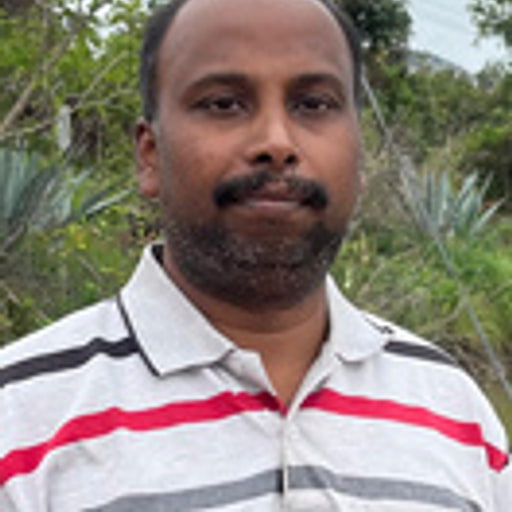
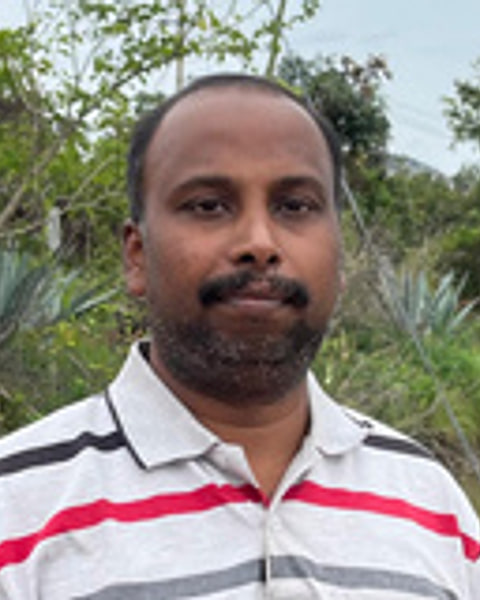
Committee portraits: keep the whole head, at the photograph's own size
The portraits were being cropped square. The brochure scans are 4:5
head-and-shoulders photographs, so squaring them meant cutting a fifth of
the height out of every one, and the saliency crop took it off the top —
which clipped the top of every head and left the faces filling the frame
edge to edge with no air around them. Because the crop offset was chosen
per photograph, the faces also landed at different heights across the grid.

Now they keep their native 4:5, so most lose nothing at all, and the crop
position is fixed rather than automatic: sources taller than the frame are
trimmed from the bottom so the head survives, wider ones are trimmed evenly
at the sides. The faces line up.

They were also being blown up nearly twice over — the originals are 68 to
160px — which is where the softness came from as much as the size. Three
across on a phone instead of two, six on a desktop instead of five, brings
the frames close to the photographs' own scale.

Two things fell out of this:

- The collapsed grid's peek into row three was a fixed 118px, which is a
  different gesture at each breakpoint now that the rows differ in height.
  It is measured as a share of the row pitch instead.
- Portrait alt text repeated the name printed underneath it, so a screen
  reader announced each member twice. The names are real text, so the
  portraits are marked decorative and axe's image-redundant-alt clears.

diff --git a/components/sections/CommitteeGrid.tsx b/components/sections/CommitteeGrid.tsx
@@ -14,23 +14,29 @@ import { EASE_OUT_EXPO } from "@/lib/motion";
  *
  * The collapsed height is measured from where the third row actually starts
  * rather than being a fixed pixel value or an nth-child rule per breakpoint —
- * the grid is 2 columns on a phone, 3 on a tablet and 5 on a desktop, and
- * measuring means "two rows" stays true at every one of them, and after the
- * fonts load.
+ * the grid is 3 columns on a phone and 6 on a desktop, and measuring means
+ * "two rows" stays true at both, and after the fonts load.
  */
+
 /**
- * How far into the third row the collapsed grid reaches. The whole of this
- * band is what dissolves, so it wants to be deep enough to read as
- * "photographs continuing" rather than as a trimmed edge.
+ * How far into the third row the collapsed grid reaches, as a share of the row
+ * pitch. The whole of this band is what dissolves, so it wants to be deep
+ * enough to read as "photographs continuing" rather than as a trimmed edge —
+ * but a fixed pixel depth cannot do that at every breakpoint, because a row is
+ * roughly twice as tall on a desktop as on a phone. Measured, it stays the
+ * same gesture on both.
  */
-const PEEK = 118;
+const PEEK_RATIO = 0.34;
 
 /** Opaque until the last row, then dissolved away over the peeking band. */
-const FADE = `linear-gradient(to bottom, #000 0, #000 calc(100% - ${PEEK}px), transparent 100%)`;
+const fade = (peek: number) =>
+  `linear-gradient(to bottom, #000 0, #000 calc(100% - ${peek}px), transparent 100%)`;
 
 export function CommitteeGrid({ members }: { members: CommitteeMember[] }) {
   const grid = useRef<HTMLUListElement>(null);
   const [collapsedHeight, setCollapsedHeight] = useState<number | null>(null);
+  const [peek, setPeek] = useState(0);
+  const [columns, setColumns] = useState(3);
   const [open, setOpen] = useState(false);
 
   const measure = useCallback(() => {
@@ -42,11 +48,14 @@ export function CommitteeGrid({ members }: { members: CommitteeMember[] }) {
 
     // Walk the items until the top offset changes twice: that is row three.
     const rowTops: number[] = [];
+    let first = 0;
     for (const item of items) {
       const top = item.offsetTop;
       if (!rowTops.includes(top)) rowTops.push(top);
+      if (rowTops.length === 1) first += 1;
       if (rowTops.length === 3) break;
     }
+    setColumns(first);
 
     // Fewer than three rows — everything already fits, no toggle needed.
     if (rowTops.length < 3) {
@@ -58,7 +67,9 @@ export function CommitteeGrid({ members }: { members: CommitteeMember[] }) {
     // the second. That sliver of the next row, fading out, is what tells you
     // there is more — a grid that ends on a tidy boundary just looks like the
     // whole list, and the button alone is easy to miss.
-    setCollapsedHeight(rowTops[2]! + PEEK);
+    const peek = Math.round((rowTops[2]! - rowTops[1]!) * PEEK_RATIO);
+    setPeek(peek);
+    setCollapsedHeight(rowTops[2]! + peek);
   }, []);
 
   useEffect(() => {
@@ -78,6 +89,10 @@ export function CommitteeGrid({ members }: { members: CommitteeMember[] }) {
 
   const collapsible = collapsedHeight !== null;
   const hidden = collapsible && !open;
+  // Everything in the first two rows stays tabbable while closed; the column
+  // count is read off the grid rather than assumed, so this follows the
+  // breakpoint instead of hard-coding one.
+  const visible = columns * 2;
 
   return (
     <div>
@@ -93,28 +108,33 @@ export function CommitteeGrid({ members }: { members: CommitteeMember[] }) {
           // work, and it still ends in a hard line where the clip is; a mask
           // dissolves the photographs themselves to nothing, so the grid
           // reads as continuing past the fold instead of being cut off.
-          maskImage: hidden ? FADE : undefined,
-          WebkitMaskImage: hidden ? FADE : undefined,
+          maskImage: hidden ? fade(peek) : undefined,
+          WebkitMaskImage: hidden ? fade(peek) : undefined,
         }}
       >
         <ul
           ref={grid}
-          className="grid grid-cols-2 gap-x-5 gap-y-9 sm:grid-cols-3 lg:grid-cols-5 lg:gap-x-7 lg:gap-y-11"
+          // Three across on a phone rather than two, six on a desktop rather
+          // than five. The originals are 68-160px brochure scans; at the old
+          // widths they were being blown up nearly twice over, which is what
+          // made them look both oversized and soft. These widths sit much
+          // closer to the photographs' own scale.
+          className="grid grid-cols-3 gap-x-3.5 gap-y-7 sm:gap-x-5 sm:gap-y-9 lg:grid-cols-6 lg:gap-x-6 lg:gap-y-10"
         >
           {members.map((member, i) => (
             <li
               key={member.name}
               // Anything past the first two rows is out of the tab order
               // while closed — it is visible, but only as a hint.
-              inert={hidden && i >= 4 ? true : undefined}
+              inert={hidden && i >= visible ? true : undefined}
             >
               <Figure
                 image={member.image}
-                ratio="1 / 1"
+                ratio="4 / 5"
                 parallax={0}
-                sizes="(max-width: 640px) 45vw, (max-width: 1024px) 30vw, 17vw"
+                sizes="(max-width: 640px) 30vw, (max-width: 1024px) 30vw, 15vw"
               />
-              <p className="mt-3.5 font-display text-lg leading-tight text-maroon">
+              <p className="mt-3 font-display text-base leading-tight text-maroon sm:mt-3.5 sm:text-lg">
                 {member.name}
               </p>
               {member.role && (

diff --git a/content/committee.ts b/content/committee.ts
@@ -7,11 +7,11 @@ import type { CommitteeMember } from "./types";
  * Twenty-one members, in the twenty-first year.
  *
  * Portraits come from the same brochure, lifted out of the PDF by
- * `scripts/extract-committee-photos.py` and squared by
+ * `scripts/extract-committee-photos.py` and sized by
  * `scripts/prepare-committee-photos.mjs`. The file name is derived from the
  * member's name, so adding a portrait is a matter of dropping the right file
  * in — there is no second list to keep in step. A member with no file still
- * renders a square ornamental plate, so the grid never breaks.
+ * renders an ornamental plate, so the grid never breaks.
  *
  * Order: the four members who hold the main portfolios first, then the rest
  * as printed in the brochure.
@@ -26,9 +26,17 @@ function portrait(name: string) {
 
   return {
     src: `/images/committee/${slug}.jpg`,
-    alt: name,
-    width: 512,
-    height: 512,
+    // Deliberately empty. The member's name is printed directly under the
+    // portrait as real text, so giving the image the name too makes a screen
+    // reader announce it twice — "Mune Gowda, image, Mune Gowda". The picture
+    // carries nothing the caption does not, which is the definition of
+    // decorative.
+    alt: "",
+    // 4:5, which is what the brochure photographs already are. Cropping them
+    // square meant cutting a fifth of the height out of a head-and-shoulders
+    // portrait, which took the tops of the heads with it.
+    width: 480,
+    height: 600,
   };
 }
 
